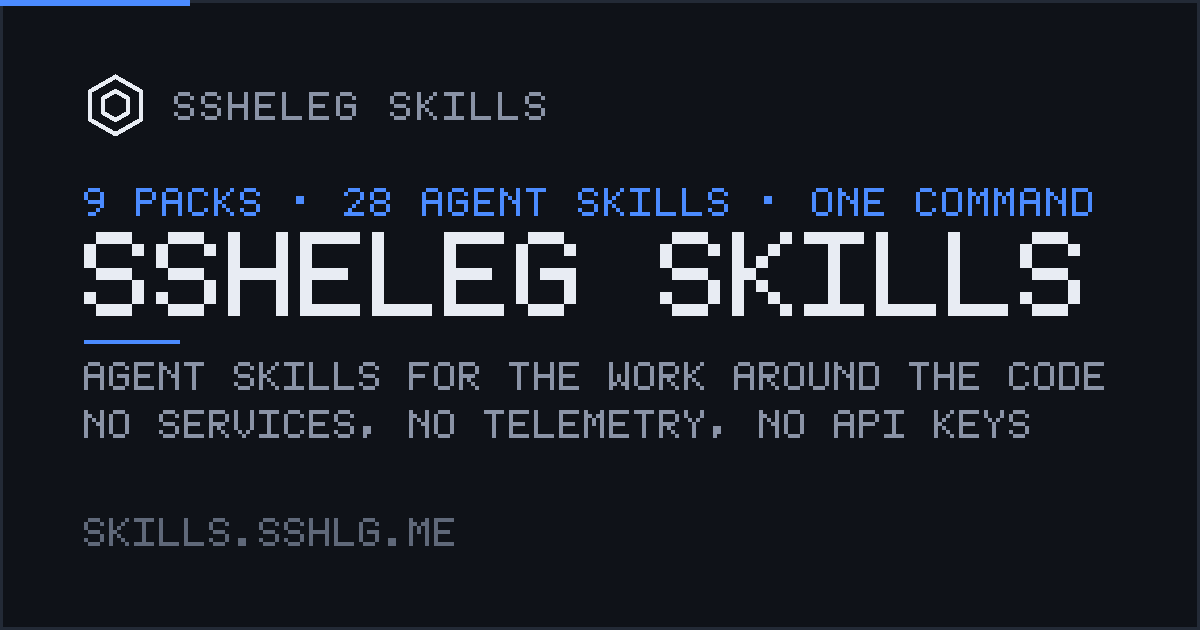
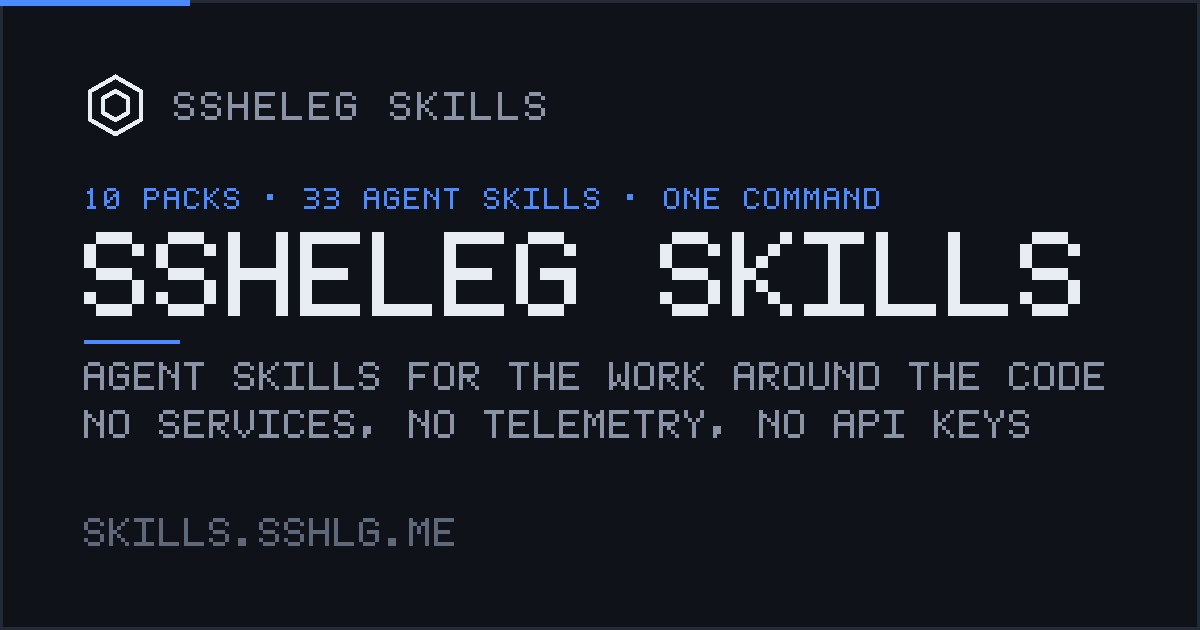
feat: xr-dev joins the family as the tenth member, pinned at v0.1.3
Five skills for Meta Quest and Horizon OS, split by the question rather than
the tool: the native OpenXR lane, the frame budget, the machine, the Store, the
browser. Meta ships 29 task skills and twelve are Unity, so the new member
routes to them instead of restating them.

Two hand-typed counts went with it, both found by adding the member rather than
by reading the code. ctx-04.06 asserted "9 members" in an assertion AND in its
case label, so the tenth member painted a pipeline regression red while nothing
about the pipeline had changed; both now come from member_pins(). docs/DOCMAP.md
said three members carry their own CLAUDE.md, counted 2026-08-16 and wrong since
telegram-dev grew one: five of ten, re-counted.

Changed region(s): [[0.2467, 0.3016, 0.925, 0.3619], [0.0617, 0.3016, 0.2158, 0.3619]]

diff --git a/test/audit_regressions/ctx-04.06.py b/test/audit_regressions/ctx-04.06.py
@@ -178,7 +178,9 @@ def t_clean_install_digests_match():
     c = sc["clean_install"]
     assert c["expected"] == c["installed"], "clean install: expected != installed"
     assert c["active"] == "current", c["channels"]
-    assert sc["member_count"] == 9, sc["member_count"]
+    # Computed, never typed: the family gains members, and a hand-written count
+    # turns every addition into a red suite that says nothing about the pipeline.
+    assert sc["member_count"] == len(member_pins()), (sc["member_count"], len(member_pins()))
 
 
 def t_upgrade_digests_match():
@@ -222,7 +224,7 @@ def main():
     if "--emit" in sys.argv[1:]:
         emit()
         return 0
-    case("clean install: expected/installed/active digests match (9 members)",
+    case(f"clean install: expected/installed/active digests match ({len(member_pins())} members)",
          t_clean_install_digests_match)
     case("upgrade: digests match and differ from the previous set", t_upgrade_digests_match)
     case("a faulted upgrade is detected as stale", t_faulted_upgrade_is_stale)

diff --git a/README.md b/README.md
@@ -48,6 +48,7 @@ scripts. No services, no telemetry, no API keys.
 | **[sheleg-dev](https://github.com/ssheleg/sheleg-dev)** | 0.13.0 | The integration layer a product reaches once it has users: **money in, tracking, sign-in, speed**. Stripe subscription billing reconciled into your own database — webhook idempotency, renewals, seats and proration, refunds, price drift, and the coupon offered at the cancel step, where a `duration=once` discount leaves `subscription.discounts` the moment its invoice finalizes and the offer can be taken every cycle; crypto payments that survive under-payment, duplicate webhooks and rate drift; GA4, Google Ads, Meta and LinkedIn under Consent Mode v2; Google sign-in with the account pre-hijacking guard, and the server-side auth surface behind it; Core Web Vitals work that moves the score rather than the report; and Sentry error tracking wired so it does not forward your own credentials to a third party and so a stack trace names the commit that caused it. |
 | **[agent-stack](https://github.com/ssheleg/agent-stack)** | 0.24.3 | Production patterns for agent systems, in four skills. **The orchestrator** — tool-calling loops that survive their own context pressure, pipelines with human checkpoints and resume, provider routing with fallback and health checks, memory architecture — form, function and dynamics, the four-stage retrieval pipeline, and what a layer table alone cannot say, and **the shape of the work decided before the work**: an edge that carries no data is no edge, a plan that declares its dependencies is executed in layers rather than in list order, and a parallel layer gets a checker before the node that consumes it. **The harness** — what the agent is *told*: system prompts at the right altitude, tool descriptions the model can act on, technique choice with a verdict each, workflow versus agent and static versus dynamic, plus a seven-track audit of an agent somebody else built and a scanner for the defects that are mechanically visible. **The evals** — suites that measure whether it actually works: judging trajectories, regression fixtures grown from production, judges calibrated before they are trusted. **The interop layer** — MCP at revision 2026-07-28 and the four features it deprecated, running many servers at once, the registry, A2A 1.0, and the gateway, every reference carrying the spec revision it was read against. Plus the wallet side of reselling LLM access: tiered balances, one markup boundary, two-phase commit against a provider API. |
 | **[telegram-dev](https://github.com/ssheleg/telegram-dev)** | 0.2.1 | Telegram, split by the API each surface actually speaks. **`telegram-bots`** — the official HTTP Bot API: `update_id` as the only idempotency key an update carries, the `allowed_updates` default that subscribes you to everything *except* `chat_member` and the two reaction types while answering `ok: true`, the webhook secret header that is the real check, rate limits as a design constraint (1/sec per chat, 20/min per group, ~30/sec bulk), and Telegram Stars with a **ten-second** pre-checkout window and a grant that belongs to `successful_payment`. **`telegram-userbots`** — MTProto and Telethon: the session file as a credential equal to the password, `FloodWaitError` as the API telling you exactly how long to wait, pinning across minor releases that move session and entity-cache behaviour, and the account-ban risk a bot token does not carry — the skill opens with whether a user account is needed at all. **`telegram-miniapps`** — the web layer, whose entire security model is one signed query string: verifying `initData` server-side, the `auth_date` window, the Ed25519 path for a third party, and the SDK package whose name moved while the organisation's own page still fronts the old one. Both the verifier and the delivery invariants ship as runnable fixtures with their mutants. |
+| **[xr-dev](https://github.com/ssheleg/xr-dev)** | 0.1.3 | Meta Quest and Horizon OS, split by the question rather than the tool. **`quest-native`** — the native OpenXR lane in C and C++: the development manifest that sideloads happily and fails review, the Khronos loader that **crashes** rather than degrades below 1.0.34, focus-awareness as a VRC and not a nicety, and `targetSdk 34` for anything created since 1 March 2026. **`quest-perf`** — the number everyone misreads: at half rate a GPU-bound app reports ~65% utilisation, while `App` in milliseconds against 13.9, 11.1 or 8.3 ms is the honest one, and the four recovery levers come in an order. **`quest-tooling`** — the metavr CLI and its MCP server, the managed tool matrix, and the rule measured the day `metavr init` wrote 29 skills into 25 directories inside a game repository: 4129 files, committed by the next `git add -A`. **`quest-store`** — four release channels where only Production triggers review, 80 VRCs generated from Meta's own page rather than transcribed, and the release manifest delta. **`quest-webxr`** — WebXR sessions, IWSDK and Bubblewrap, through to the Digital Asset Links step that decides whether an immersive PWA launches at all. Unity and Unreal stay with Meta's own skills; this pack routes rather than duplicates. |
 
 They compose. `task-pipeline` hands user-facing work to `super-ux` and takes its
 leases from `agent-sync`; `make-skill` encodes the repo layout the others are
@@ -298,6 +299,7 @@ priorities** — a landing page passes several, an internal script passes none:
 | `sheleg-dev` | what it runs on to charge, track and sign in | money, tracking, errors, sign-in or speed is being wired | sheleg-dev |
 | `agent-stack` | how an agent system is built, judged and metered | the thing being built is an agent | agent-stack |
 | `telegram-dev` | which Telegram API a surface speaks, and what it costs | the thing being built lives inside Telegram | telegram-dev |
+| `xr-dev` | how an XR app is built, measured and shipped on Meta Quest | the thing being built runs on a headset | xr-dev |
 | `seo-llmo` | whether a machine will find it | a logged-out reader can see it | — |
 | `evidence-docs` | what proves it | something is stated as true | — |
 | `task-pipeline` | how the change reaches the repo | the repository changes | task-pipeline |

diff --git a/docs/DOCMAP.md b/docs/DOCMAP.md
@@ -28,13 +28,13 @@ it.
 ## What this repository is
 
 The **umbrella** of the ssheleg skill family: a zero-dependency Node launcher
-plus nine skill packs as pinned git submodules. It ships no doctrine of its own —
+plus 10 skill packs as pinned git submodules. It ships no doctrine of its own —
 each skill carries its own — but it owns the family's **routing block**, the
 one piece of the family that edits a file the operator owns and did not write.
 
-**Three of the nine members have their own `CLAUDE.md` house rules** —
-`seo-aeo-audit`, `super-ux` and `task-pipeline` — counted with
-`git -C skills/<name> ls-files CLAUDE.md` on 2026-08-16. The other six carry a
+**5 of the 10 members have their own `CLAUDE.md` house rules** —
+`seo-aeo-audit`, `super-ux`, `task-pipeline`, `telegram-dev` and `xr-dev` — counted with
+`git -C skills/<name> ls-files CLAUDE.md`, re-run 2026-09-20. The other 5 carry a
 validator and CI but no house rules. This paragraph said *"the first six"* until
 that count was run, which named five repositories as having a file they do not
 have. This repository grew its own on 2026-08-10, closing carry-over C-06.
@@ -164,8 +164,8 @@ plus the routing block, paid in every session of every project), bodies against
 the 5000-token cap, two skills competing for one trigger phrase, and the
 installed block against the registry.
 
-<!-- ratchets: suites=88 fixtures=1028 members=9 -->
-**Ratchets.** 88 suites, 1028 fixtures, 9 pinned members — and these three numbers are
+<!-- ratchets: suites=88 fixtures=1028 members=10 -->
+**Ratchets.** 88 suites, 1028 fixtures, 10 pinned members — and these three numbers are
 now **read out of the marker above by `test/run.js`, which re-derives all three from the
 run it just did and fails when a stated figure and the measured one disagree — and this
 sentence is checked against the same run, not against the marker.** It quoted the marker

diff --git a/CHANGELOG.md b/CHANGELOG.md
@@ -1,3 +1,24 @@
+## v1.49.0 — a tenth member: XR
+
+`xr-dev` joins the family, pinned at v0.1.3: five skills for Meta Quest and
+Horizon OS, split by the question rather than the tool. `quest-native` owns the
+native OpenXR lane, `quest-perf` the frame budget and the GPU% figure that reads
+low exactly when an app is GPU-bound, `quest-tooling` the metavr CLI and the
+machine hygiene that keeps a skill install out of a product repository,
+`quest-store` the four release channels and 80 VRCs generated from Meta's own
+page, `quest-webxr` the browser lane through to Digital Asset Links.
+
+Meta publishes 29 task skills of its own and twelve are Unity-specific; the new
+member routes to them rather than restating them, which is why the family gains
+a domain pack and not a second opinion.
+
+Two counts stopped being typed in this release. `ctx-04.06` asserted "9 members"
+in a string and in a label, so a tenth member turned a green pipeline red while
+saying nothing about the pipeline; both now derive from `member_pins()`. And
+`docs/DOCMAP.md` claimed three members carry their own `CLAUDE.md` — a figure
+from 2026-08-16 that had been wrong since `telegram-dev` grew one. Re-counted:
+five of ten.
+
 ## v1.48.4 — the recovery store broke the command it protects
 
 `npx sshlg-skills@latest update` on v1.48.3 died mid-run:
